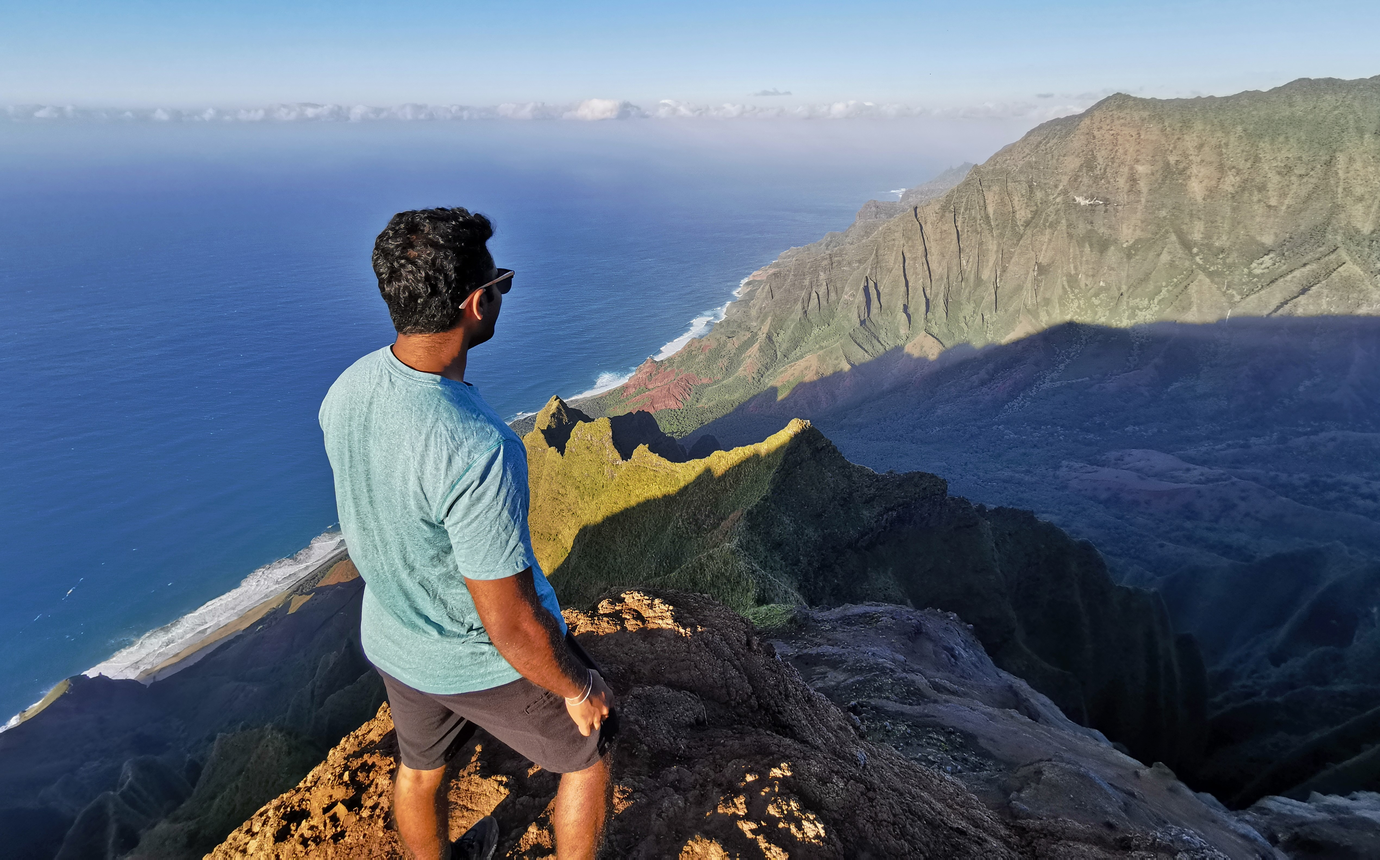
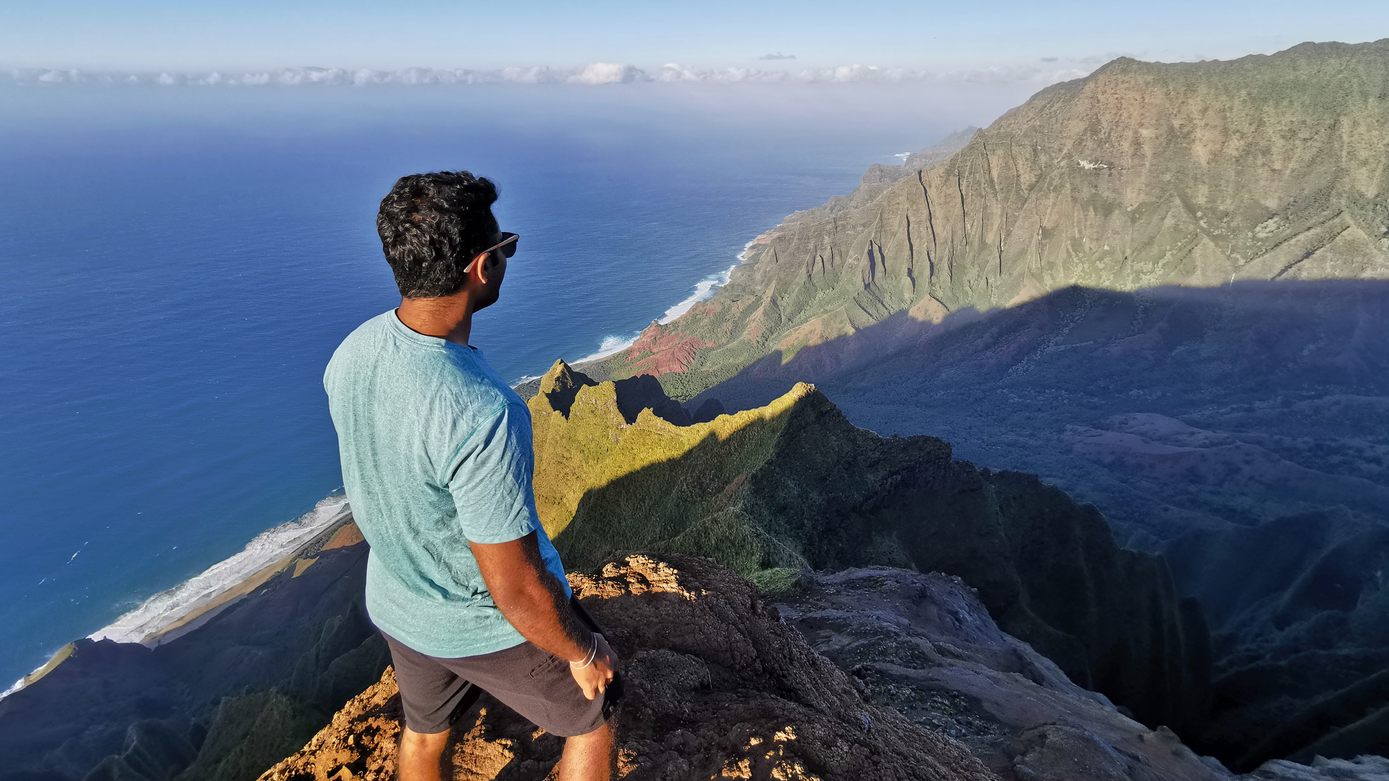
Resized images added a footer

diff --git a/index.html b/index.html
@@ -144,9 +144,9 @@
                       </div>
                     </div>
                     <div class="carousel-item">
-                      <img src=".\resources\images\scuba1.jpg" class="mx-auto d-block img-fluid" alt="...">
+                      <img src=".\resources\images\ascuba1.jpg" class="mx-auto d-block img-fluid" alt="...">
                       <div class="carousel-caption">
-                        <h5>Theres always more to be learned and disovered</h5>
+                        <h5>There's always more to be learned and discovered</h5>
                       </div>
                     </div>
                   </div>
@@ -479,6 +479,12 @@
 
               </section>
               <!--End Experince Section-->
+
+              <!--Footer Sections-->
+              <section id="Footer">
+                <h6><i class="fa fa-smile-o"></i> Website made by A.Raman <i class="fa fa-smile-o"></i></h6>
+              </section>
+              <!--End of Footer Section-->
 
             </div>
             <!--End Botton Class-->

diff --git a/resources/css/main.css b/resources/css/main.css
@@ -180,16 +180,16 @@ ul {
 .carousel-item img{
   width: 100%;
   display: block;
-  height: 700px;
+  height: auto;
 }
 
 .carousel-caption{
-  top: 25%;
+  top: 35%;
   right: initial!important;
-  left:70%!important;
+  left:60%!important;
   transform: translateY(-50%);
   bottom: initial!important;
-  width: 200px;
+  width: 40%;
 }
 
 .carousel-caption h5{
@@ -481,3 +481,19 @@ display: inline;
 }
 
 /**********************End of Experience Section***************/
+
+/*********************Footer Section***************************/
+#Footer{
+  height: 50px;
+  background: #000000;
+}
+
+#Footer h6{
+  color: #ffff;
+  text-align: center;
+  vertical-align: middle!important;
+  padding-top: 15px;
+  left: 50%;
+}
+
+/*********************End of Footer Section********************/
